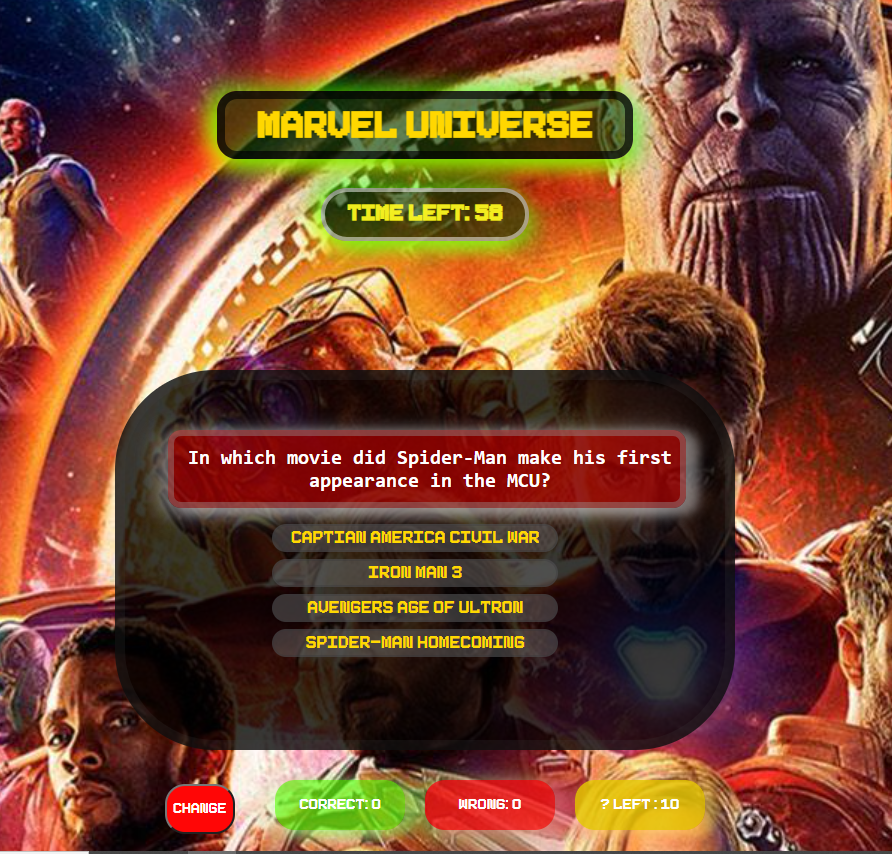
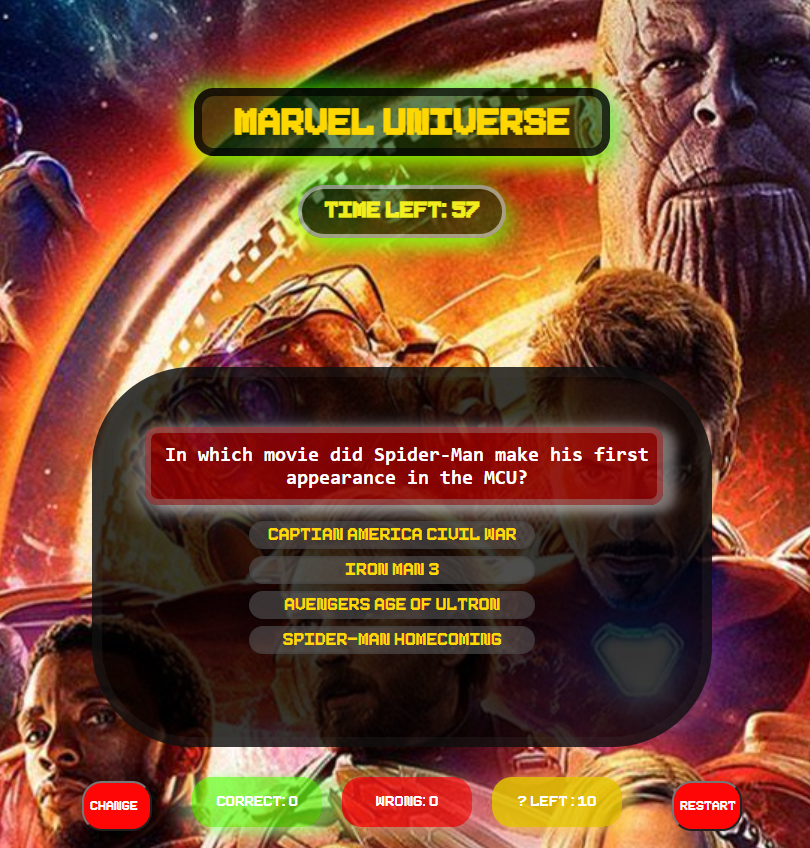
added restart button

diff --git a/js/app.js b/js/app.js
@@ -28,7 +28,14 @@ document.getElementById("a").addEventListener("click", checkAnswer)
 document.getElementById("b").addEventListener("click", checkAnswer)
 document.getElementById("c").addEventListener("click", checkAnswer)
 document.getElementById("d").addEventListener("click", checkAnswer)
-
+document.getElementById("restart").addEventListener("click", ()=>{
+    questionCounter = 0
+    questionSelector()
+    player.score = 0
+    player.numWrong = 0
+    player.numCorrect = 0
+    timeLeft = 60
+})
 
 init()
 
@@ -114,8 +121,8 @@ function winMessage(){
     if(timeLeft > 30 && player.score > 90){return `I think this might be too easy for you`} 
     else if(timeLeft > 30 && player.score < 90){return "Slow and steady wins the race"}
     else if(timeLeft < 30 && player.score >= 90){return "GREAT JOB!"}
-    else if(timeLeft < 30 && timeLeft != 0 && player.score < 90){return "Try Again!"}
-    else if(timeLeft = 0 && player.score <= 70){return "This might be too hard for you"}
+    else if(timeLeft < 30 && timeLeft > 0 && player.score < 70){return "Try Again!"}
+    else{return "This might be too hard for you"}
 }
 
 function clearState(){

diff --git a/css/styles.css b/css/styles.css
@@ -1,3 +1,5 @@
+
+
 @font-face {
     font-family: digital;
     src: url(Pixeboy-z8XGD.ttf);
@@ -57,12 +59,8 @@ main{
     min-width: 600px;
 }
 
-
-
-
-
-#changeBtn{
-    font-size: 19px;
+#changeBtn, #restart{
+    font-size: 17px;
     border-radius: 20px;
     background-color: rgb(255, 6, 6);
     height: 50px;
@@ -74,6 +72,10 @@ main{
     margin-left: 20px;
     color: white;
     font-style: bold;
+}
+
+#restart{
+    margin-left: 50px;
 }
 
 

diff --git a/index.html b/index.html
@@ -45,6 +45,7 @@
                 <li id="numWrong"></li>               
                 <li id="remainingQ"></li>
             </ul>
+            <button id ="restart" onlick = "restart()">RESTART</button>
         </div>
     </main>
 </body>
